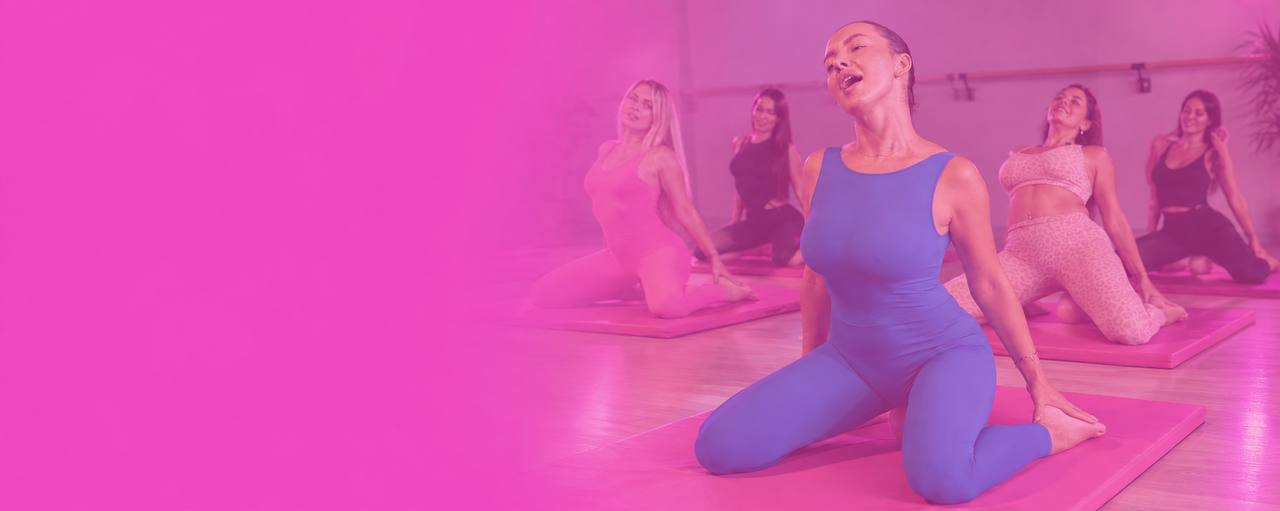
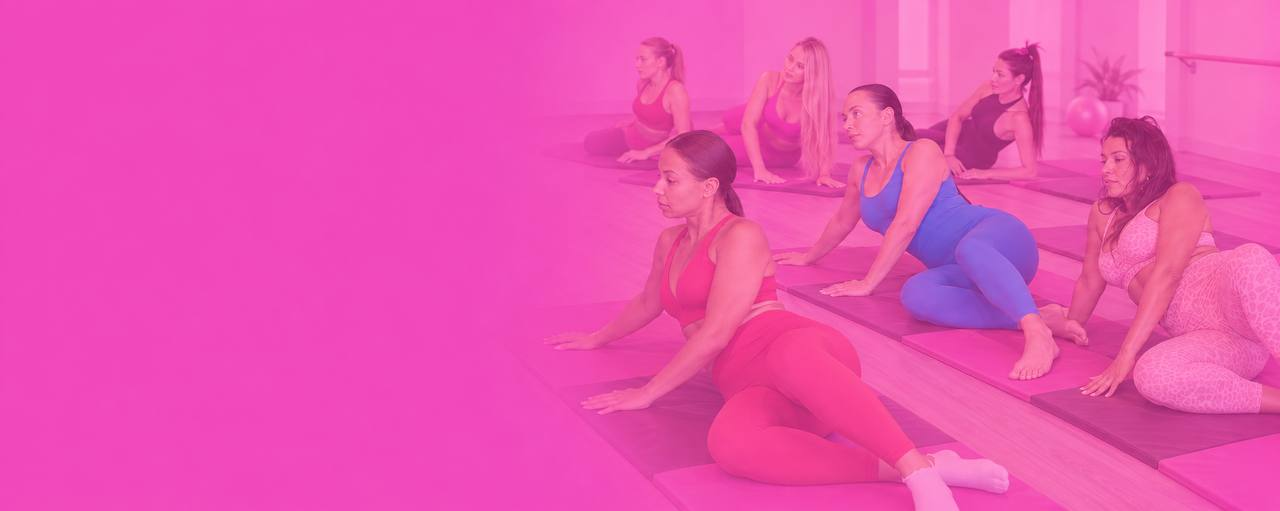
Try alternate Academy CTA training photo

diff --git a/intimflex-academy/src/app/globals.css b/intimflex-academy/src/app/globals.css
@@ -260,8 +260,8 @@ h1 em, h2 em, h3 em { color: var(--rose-gold); font-style: normal; }
   .final-actions .button { width: 100%; }
   .final-cta { min-height: 0; padding: 72px 0; }
   .final-cta-visual { inset: 0; height: auto; }
-  .final-cta-visual img { object-position: 66% center; filter: saturate(.76) contrast(.92); }
-  .final-cta-tint { background: linear-gradient(90deg, color-mix(in srgb, var(--rosewood) 91%, transparent) 0%, color-mix(in srgb, var(--rosewood) 74%, transparent) 56%, color-mix(in srgb, var(--rosewood) 48%, transparent) 100%), linear-gradient(180deg, color-mix(in srgb, var(--rosewood) 42%, transparent) 0%, color-mix(in srgb, var(--rosewood) 58%, transparent) 100%); }
+  .final-cta-visual img { object-position: 71% center; filter: saturate(.9) contrast(.96); }
+  .final-cta-tint { background: linear-gradient(90deg, color-mix(in srgb, var(--rosewood) 58%, transparent) 0%, color-mix(in srgb, var(--rosewood) 34%, transparent) 56%, color-mix(in srgb, var(--rosewood) 16%, transparent) 100%), linear-gradient(180deg, color-mix(in srgb, var(--rosewood) 18%, transparent) 0%, color-mix(in srgb, var(--rosewood) 28%, transparent) 100%); }
 }
 
 /* Localized copy needs room to breathe without changing the AXS scale. */
